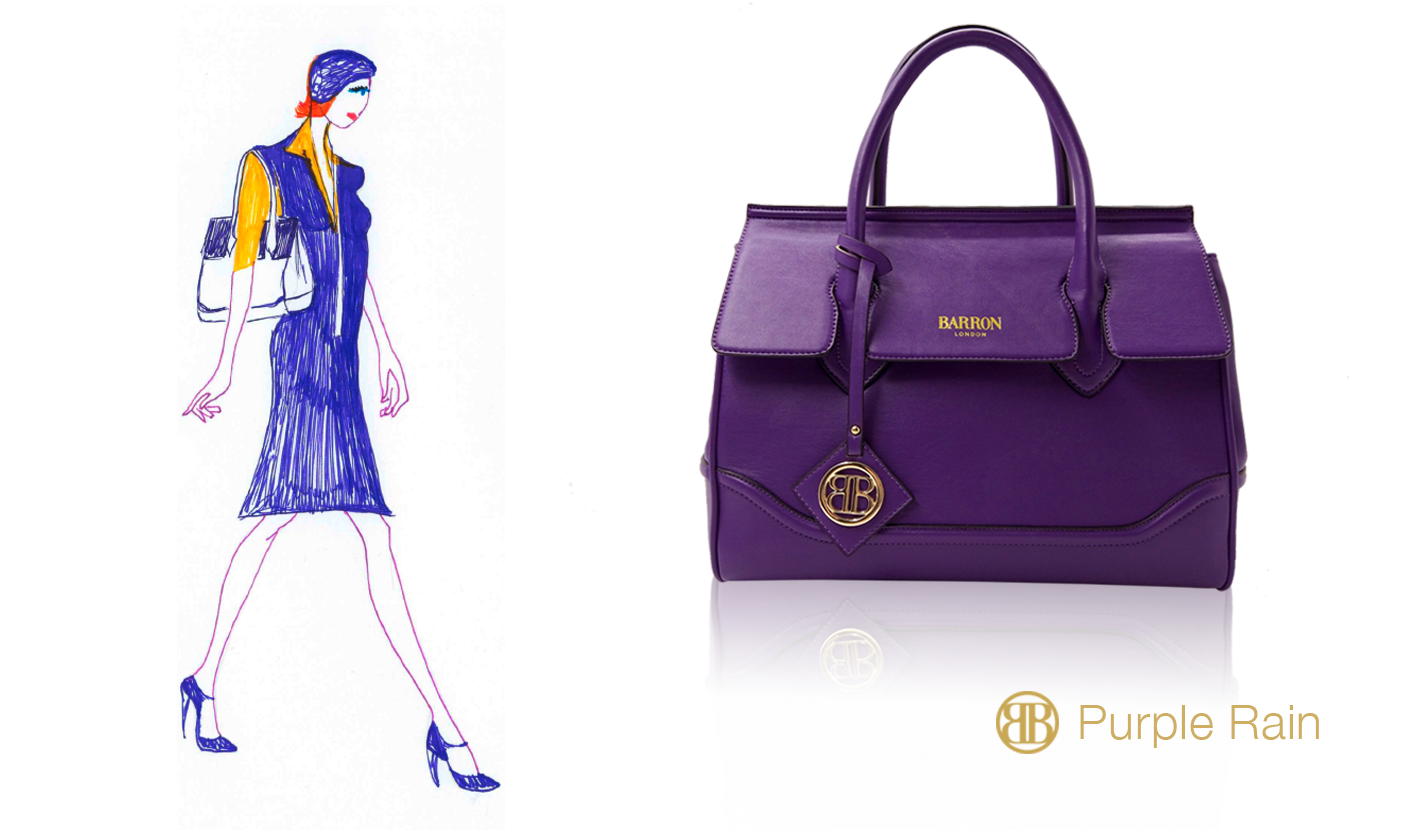
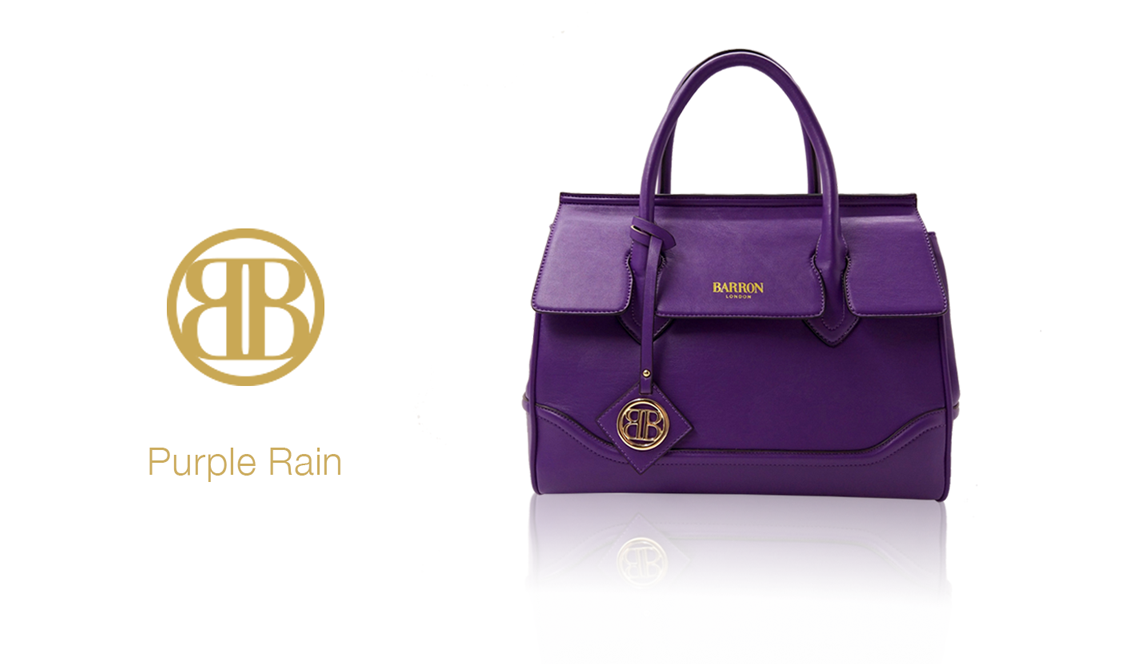
Barron london

diff --git a/handbag.html b/handbag.html
@@ -93,7 +93,7 @@
     <div class="container marketing">
       <div class="row">
         <div class="col-md-12 npl npr">
-          <img class="img-responsive" src="img/stock/Banner_about_happy_noir.png">
+          <img class="img-responsive" src="img/stock/Banner_handbags.png">
         </div>
       </div>
 
@@ -145,7 +145,7 @@
               </div>
             <div class="col-md-6 handbag-item">
                 <img class="img-responsive center-block" alt="500x500" src="img/stock/yellowbrick.png" data-holder-rendered="true">
-                 <p>Inspired in a circular shape, the sac´ can hold enough space to carry clothes for a one day short trip, and even a 15“ computer.</p>
+                 <p>Revive those moments of energy and happiness with a unique colour selection and enough space to travel on a short trip. Inspired in a circular shape, the sac´ can hold enough space to carry clothes for a one day short trip, and even a 15“ computer.</p>
               </div>
         </div>
         <div class="row">
